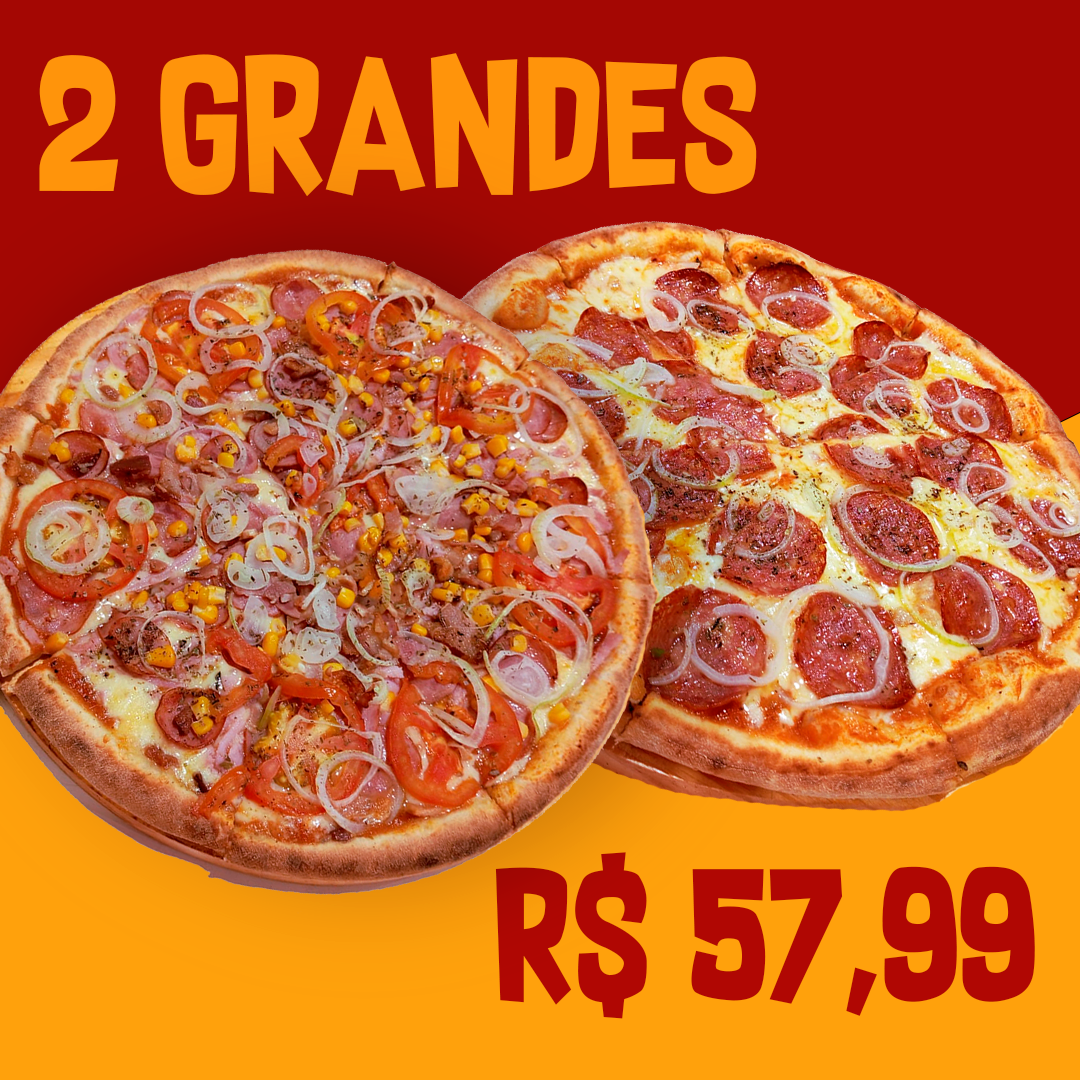
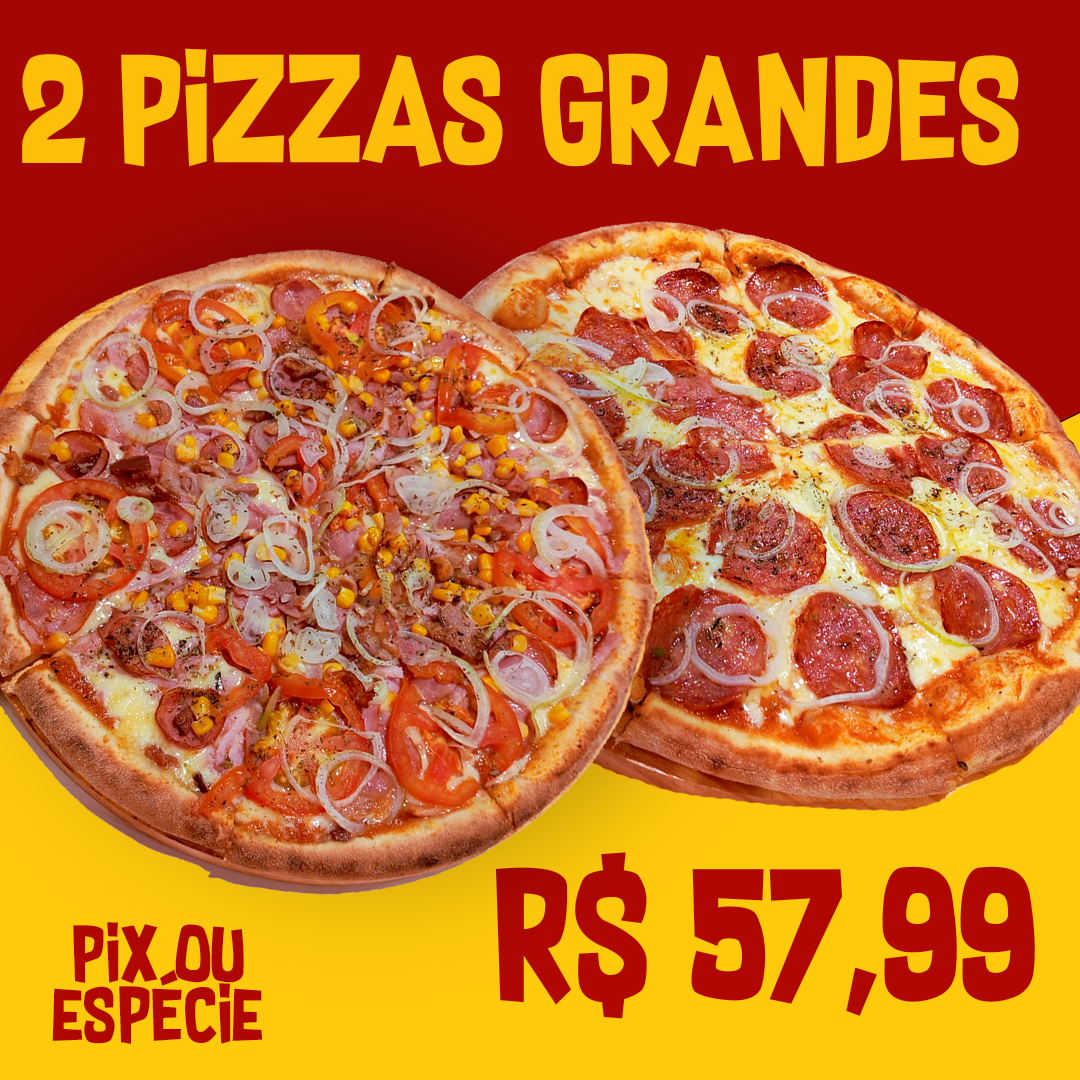
added promo

Changed region(s): [[0.0, 0.6417, 1.0, 1.0], [0.0, 0.0306, 0.9472, 0.1833], [0.9778, 0.3667, 1.0, 0.4278]]

diff --git a/src/pages/pedido/index.tsx b/src/pages/pedido/index.tsx
@@ -60,6 +60,13 @@ const Pedido: NextPage = () => {
     if (promosCarregadas) {
       setItems(getItems());
     }
+
+    console.log(
+      "getDuasRefri60()",
+      getDuasRefri60(),
+      "getGrande29()",
+      getGrande29()
+    );
   }, [promosCarregadas]);
 
   const { myOrder } = useMyOrder();
@@ -102,89 +109,97 @@ const Pedido: NextPage = () => {
     );
 
   return (
-    <PedidoStyle
-      onContextMenu={(e) => {
-        e.preventDefault();
-      }}
-    >
-      <TextContainer title="MONTE SEU PEDIDO" subtitle="ADICIONE UM ITEM" />
+    promosCarregadas && (
+      <PedidoStyle
+        onContextMenu={(e) => {
+          e.preventDefault();
+        }}
+      >
+        <TextContainer title="MONTE SEU PEDIDO" subtitle="ADICIONE UM ITEM" />
 
-      <div className="menu">
-        <Carousel
-          length={items.length}
-          defaultSelectedIndex={getDuasRefri60() ? 2 : undefined}
-        >
-          {items.map((item, index) => (
-            <CarouselItem
-              key={item.route}
-              image={{ src: item.image, w: 100 }}
-              title={item.name}
-              route={item.route}
-              index={index}
-            />
-          ))}
-        </Carousel>
-      </div>
-      <Dots items={items} />
-      <BottomControls
-        secondaryButton={{
-          click: () => router.push("/pedido/itens"),
-          disabled: (myOrder?.itens?.length ?? 0) < 1,
-          text: "MEUS ITENS",
-          badge: myOrder?.itens?.length,
-        }}
-        primaryButton={{
-          click: () => {
-            console.log(myOrder?.itens);
-            if (
-              myOrder?.itens.some((x) =>
-                [
-                  "CERVEJA",
-                  "SUCO",
-                  "REFRIGERANTE",
-                  "REFRI",
-                  "COCA",
-                  "AGUA",
-                  "SUKITA",
-                  "PEPSI",
-                  "ANTÁRCTICA",
-                  "ÁGUA",
-                ].some((y) => (x as IOutro)?.nome?.toUpperCase().includes(y))
-              )
-            ) {
-              router.push("/pedido/informacoes-adicionais");
-            } else {
-              askIfCustomerWantsDrink();
+        <div className="menu">
+          <Carousel
+            length={items.length}
+            defaultSelectedIndex={
+              promosCarregadas
+                ? getDuasRefri60() || getGrande29()
+                  ? 2
+                  : undefined
+                : undefined
             }
-          },
-          disabled: (myOrder?.itens?.length ?? 0) < 1,
-        }}
-      />
-      {showModal && (
-        <Modal label="Adicionar bebida? 🍹🍻" type={"custom"}>
-          <Cards
-            items={[
-              {
-                id: "n",
-                label: "Sem bebida",
-                image: "/images/card-sem-bebida.png",
-                click: () => {
-                  router.push("/pedido/informacoes-adicionais");
+          >
+            {items.map((item, index) => (
+              <CarouselItem
+                key={item.route}
+                image={{ src: item.image, w: 100 }}
+                title={item.name}
+                route={item.route}
+                index={index}
+              />
+            ))}
+          </Carousel>
+        </div>
+        <Dots items={items} />
+        <BottomControls
+          secondaryButton={{
+            click: () => router.push("/pedido/itens"),
+            disabled: (myOrder?.itens?.length ?? 0) < 1,
+            text: "MEUS ITENS",
+            badge: myOrder?.itens?.length,
+          }}
+          primaryButton={{
+            click: () => {
+              console.log(myOrder?.itens);
+              if (
+                myOrder?.itens.some((x) =>
+                  [
+                    "CERVEJA",
+                    "SUCO",
+                    "REFRIGERANTE",
+                    "REFRI",
+                    "COCA",
+                    "AGUA",
+                    "SUKITA",
+                    "PEPSI",
+                    "ANTÁRCTICA",
+                    "ÁGUA",
+                  ].some((y) => (x as IOutro)?.nome?.toUpperCase().includes(y))
+                )
+              ) {
+                router.push("/pedido/informacoes-adicionais");
+              } else {
+                askIfCustomerWantsDrink();
+              }
+            },
+            disabled: (myOrder?.itens?.length ?? 0) < 1,
+          }}
+        />
+        {showModal && (
+          <Modal label="Adicionar bebida? 🍹🍻" type={"custom"}>
+            <Cards
+              items={[
+                {
+                  id: "n",
+                  label: "Sem bebida",
+                  image: "/images/card-sem-bebida.png",
+                  click: () => {
+                    router.push("/pedido/informacoes-adicionais");
+                  },
                 },
-              },
-              {
-                id: "a",
-                label: "Quero bebida",
-                image: "/images/card-com-bebida.png",
-                click: () => {
-                  router.push("/pedido/bebida");
+                {
+                  id: "a",
+                  label: "Quero bebida",
+                  image: "/images/card-com-bebida.png",
+                  click: () => {
+                    router.push("/pedido/bebida");
+                  },
                 },
-              },
-            ]}
-          />
-        </Modal>
-      )}
-    </PedidoStyle>
+              ]}
+            />
+          </Modal>
+        )}
+      </PedidoStyle>
+    )
   );
 };
 

diff --git a/src/pages/pedido/promocao-grande-2999/index.tsx b/src/pages/pedido/promocao-grande-2999/index.tsx
@@ -208,12 +208,12 @@ const Sabores: NextPage = () => {
         {comCoca || comGoob ? (
           <>
             <h5 className="title">2 pizzas G + 1 Refri 1L por:</h5>
-            <h1>R$ 59,99 (VIA PIX OU ESPÉCIE)</h1>
+            <h1>R$ 59,99</h1>
           </>
         ) : (
           <>
             <h5 className="title">Pizza GRANDE por:</h5>
-            <h1>R$ 29,99 (VIA PIX OU ESPÉCIE)</h1>
+            <h1>R$ 29,99</h1>
           </>
         )}
         <h5 className="title">(Pagamento em Espécie ou PIX)</h5>
